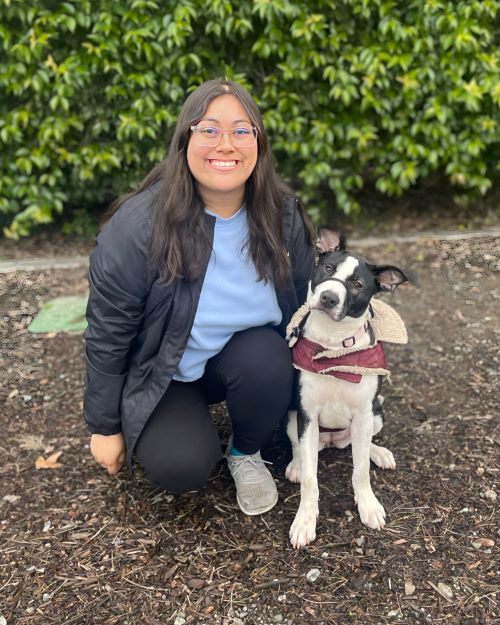
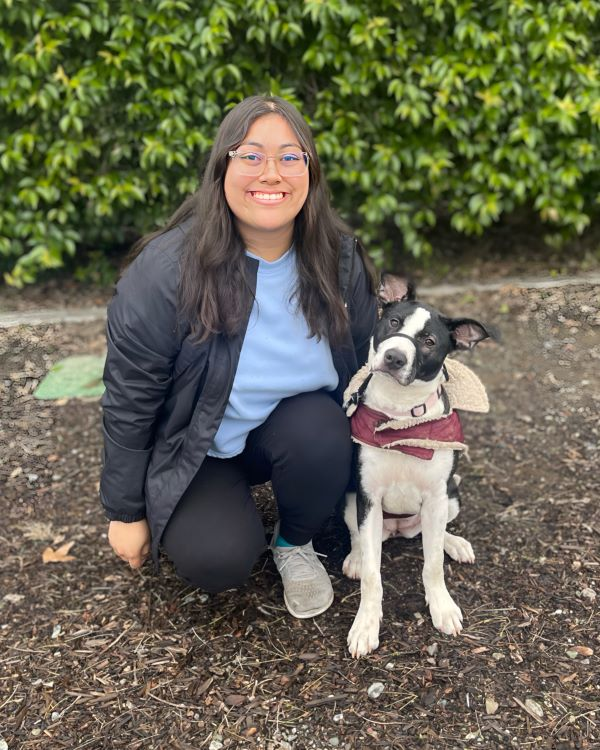
moar pic rezie

diff --git a/content/team.md b/content/team.md
@@ -27,7 +27,7 @@ title: "Our Team"
 
 <table>
 <tr>
-  <td class=td.pic><img src="/img/project_staff/Robin.jpg" alt="Dr. Robin Donatello"/></td>
+  <td class=td.pic><img src="/img/project_staff/Robin2.jpg" alt="Dr. Robin Donatello"/></td>
   <td class=td.name>
     <a href="https://www.norcalbiostat.com/"><strong>Dr. Robin Donatello, DrPH</strong></a><br>
     <strong>Chico State</strong><br> 
